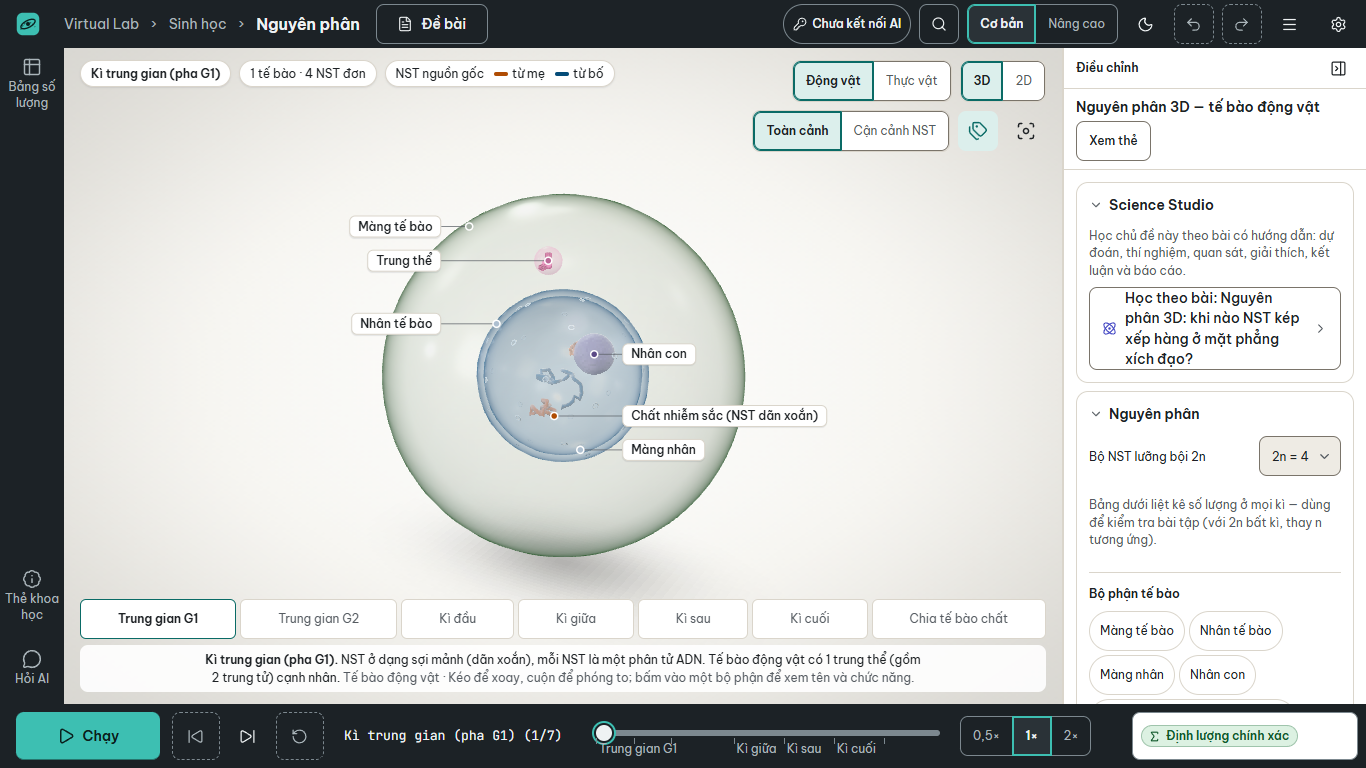
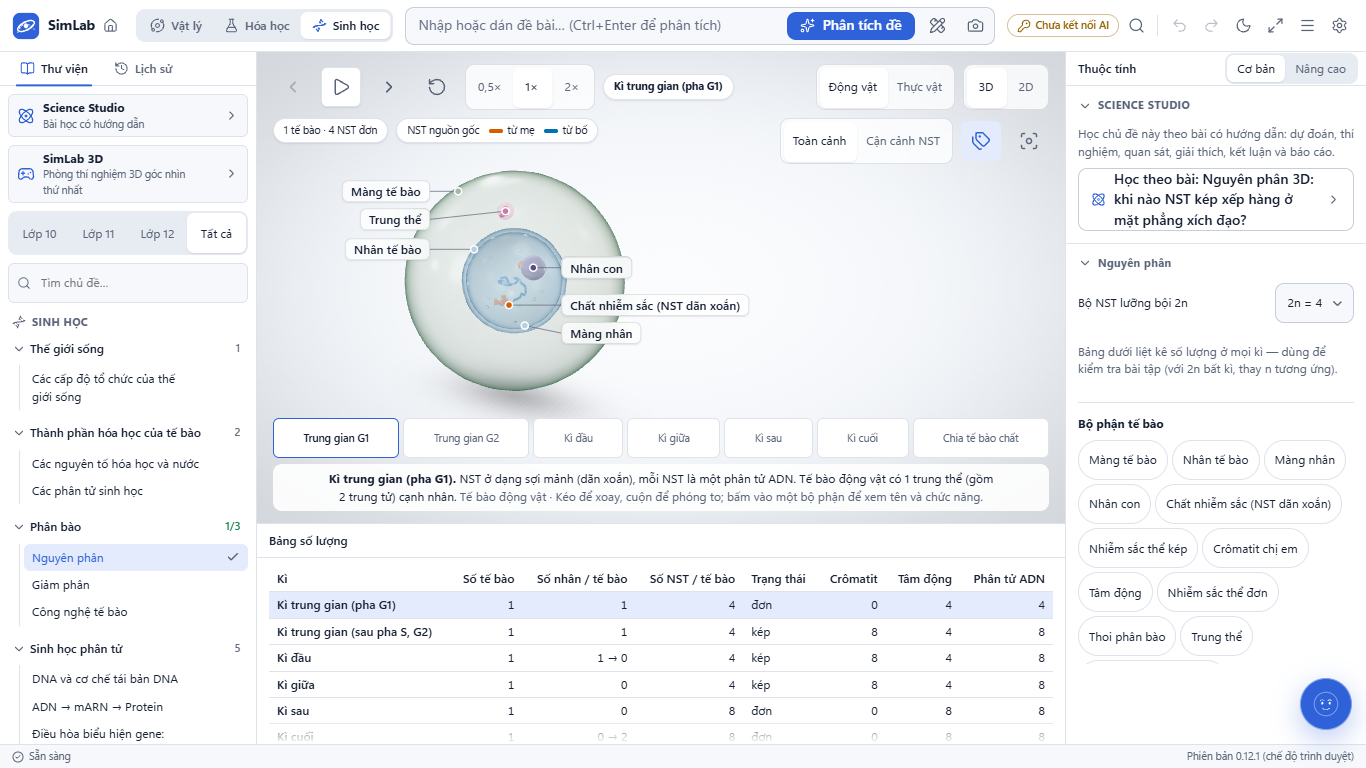
feat(store): 0.12.1 Store screenshots of the current lab; SimLab 3D replaces the keyless AI Teacher shot

diff --git a/docs/STORE.md b/docs/STORE.md
@@ -39,6 +39,15 @@ Quyết định của người dùng (13/10/2026):
   Claude điền bản nộp trong Chrome của người dùng: chữ "Có gì mới" 0.8.2 (vi, en) lấy từ hai tệp
   listing, lý do `runFullTrust` giữ từ lần trước; người dùng tự kéo tệp gói vào (tiện ích Chrome chỉ
   gửi được tệp dưới 10 MB). Ảnh giữ như bản nộp 4.
+- Ảnh chụp 0.12.1 (21/11/2026; người dùng: "thay đổi ảnh screenshot mới trong ms store"): 8 ảnh PNG
+  1366×768 của giao diện hiện tại (giao diện Bàn thí nghiệm của bộ ảnh 0.8.1 đã bỏ từ 15/11/2026),
+  thứ tự = tên tệp: 1 sinh thái 3D (Con mồi – vật ăn thịt), 2 SimLab 3D (menu của game), 3 giao thoa
+  sóng hai nguồn, 4 ADN → mARN → Protein 3D, 5 chuẩn độ acid – base, 6 nguyên phân 3D, 7 Science
+  Studio, 8 trang mở đầu. Không có ảnh AI Teacher: không có câu trả lời thật thì ảnh chỉ là trang lúc
+  chưa kết nối AI (người dùng đã bỏ ảnh đó ngày 13/11/2026). Chụp bằng
+  `node scripts/store/screenshots.mjs` (dev server trên localhost:1420, mọi máy chủ AI bị chặn; máy
+  chụp dùng WebGL trên card AMD Radeon 780M). Claude tải 8 ảnh lên bản nộp 7 cho cả trang tiếng
+  Việt và tiếng Anh, thay 7 ảnh của bản nộp 4.
 - Ảnh chụp 0.8.1 (8 ảnh PNG 1366×768, giao diện Bàn thí nghiệm, thứ tự = tên tệp): 1 sinh thái 3D
   (Con mồi – vật ăn thịt), 2 AI Teacher, 3 giao thoa sóng hai nguồn, 4 ADN → mARN → Protein 3D,
   5 chuẩn độ acid – base, 6 nguyên phân 3D, 7 Science Studio, 8 trang mở đầu. Chụp bằng
